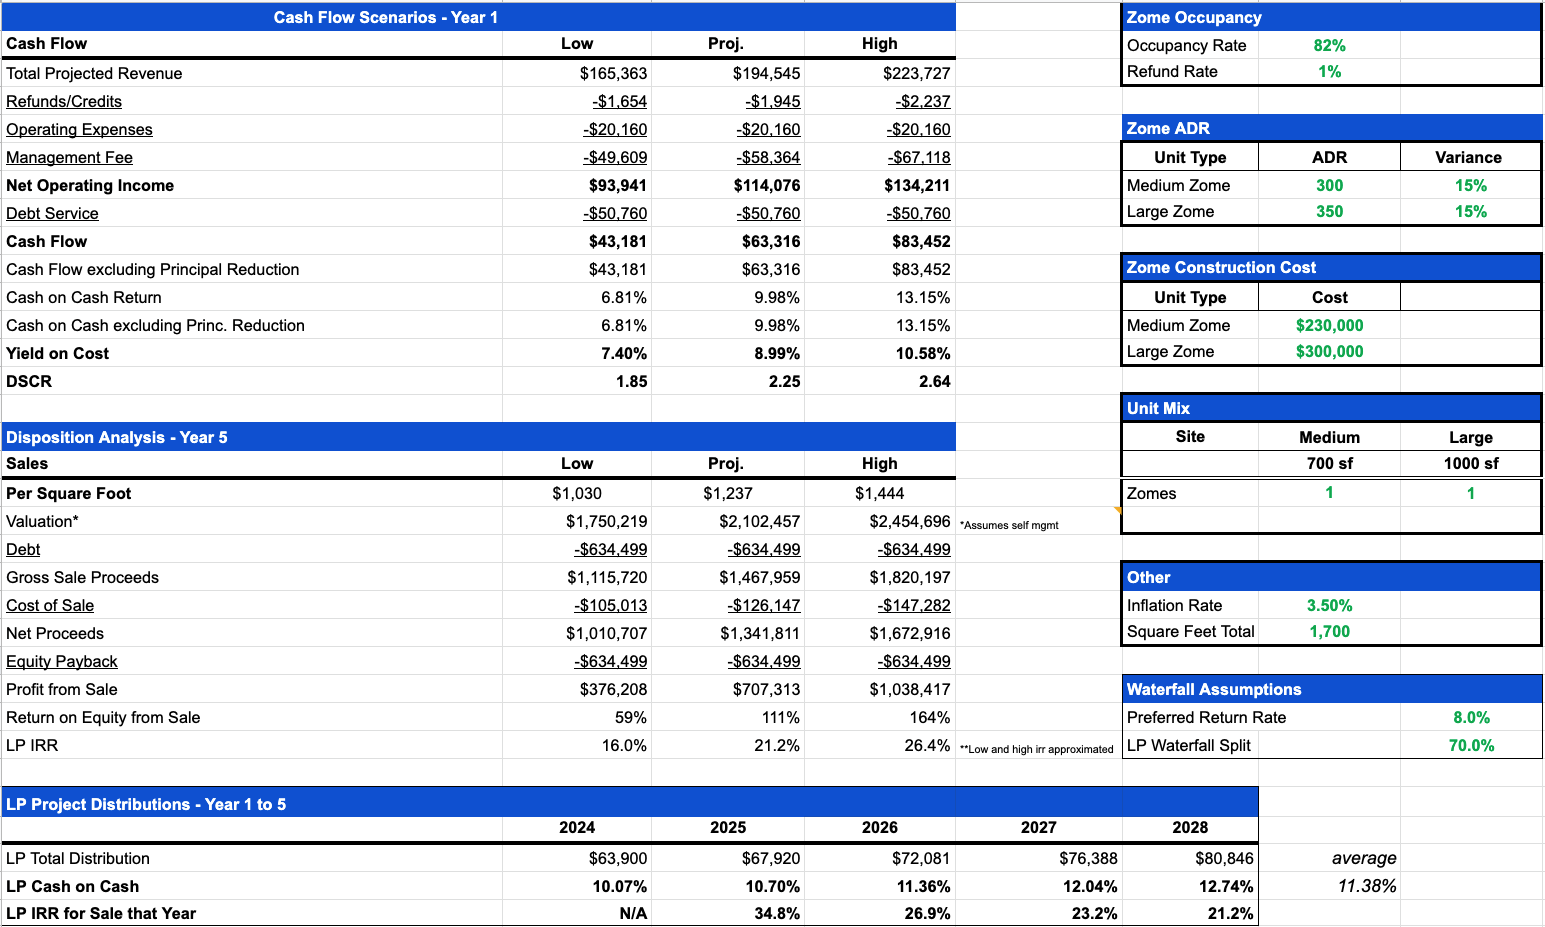
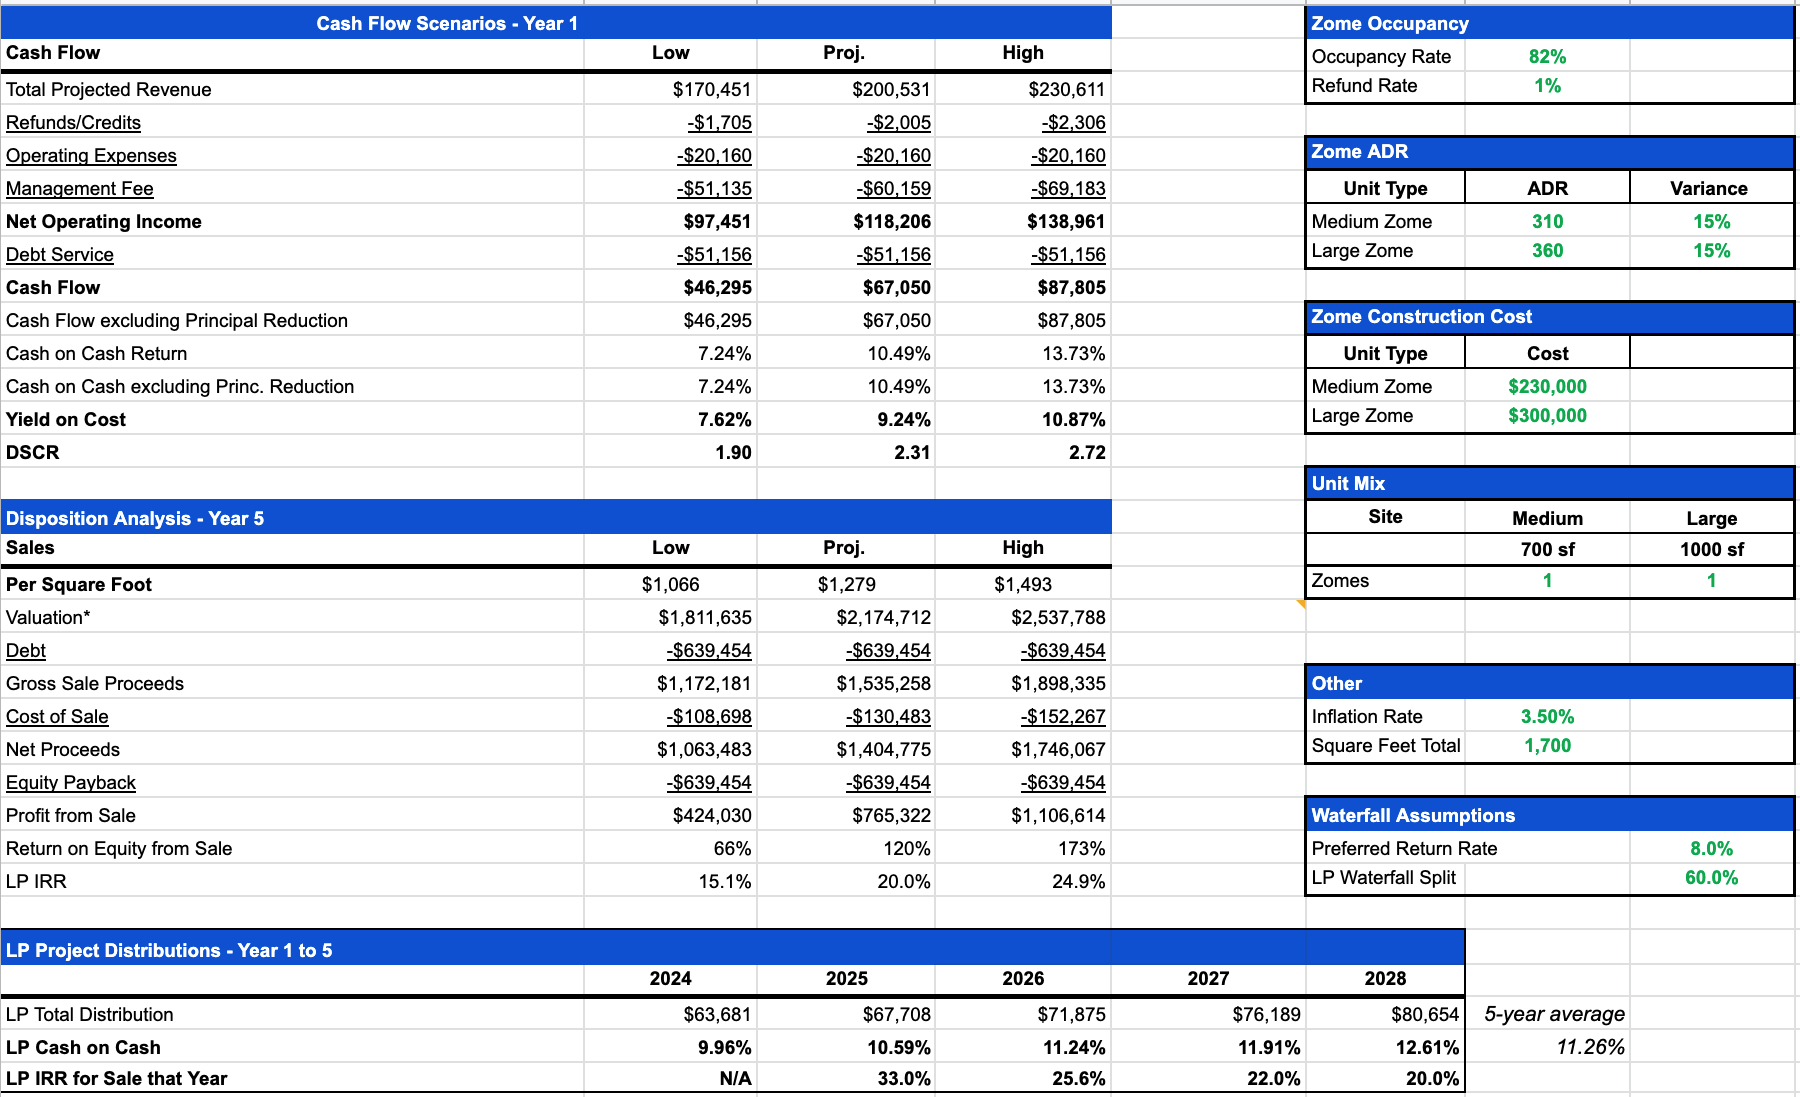
asdfas

Changed region(s): [[0.0, 0.0, 1.0, 1.0]]

diff --git a/_site/properties.html b/_site/properties.html
@@ -268,14 +268,14 @@
                                     class="project__has__investors__percent">(49.6%)</span>
                             </p>
                             <p class="project__has">
-                                <i class="fa-solid fa-dollar-sign"></i> 1,259,451 Goal
+                                <i class="fa-solid fa-dollar-sign"></i> 1,270,739 Goal
                             </p>
                         </div>
                     </div>
                     <div class="item__info">
                         <div class="item__info__single">
                             <p>Cash on Cash</p>
-                            <h6>11.53%</h6>
+                            <h6>11.39%</h6>
                         </div>
                         <div class="item__info__single">
                             <p>Target Hold</p>
@@ -287,7 +287,7 @@
                         </div>
                         <div class="item__info__single">
                             <p>Target IRR</p>
-                            <h6>21.5%</h6>
+                            <h6>20.2%</h6>
                         </div>
                         <!-- <div class="item__info__single">
                         <p></p>
@@ -374,14 +374,14 @@
                                     class="project__has__investors__percent">(49.25%)</span>
                             </p>
                             <p class="project__has">
-                                <i class="fa-solid fa-dollar-sign"></i> 1,268,997 Goal
+                                <i class="fa-solid fa-dollar-sign"></i> 1,278,907 Goal
                             </p>
                         </div>
                     </div>
                     <div class="item__info">
                         <div class="item__info__single">
                             <p>Cash on Cash</p>
-                            <h6>11.38%</h6>
+                            <h6>11.26%</h6>
                         </div>
                         <div class="item__info__single">
                             <p>Target Hold</p>
@@ -393,7 +393,7 @@
                         </div>
                         <div class="item__info__single">
                             <p>Target IRR</p>
-                            <h6>21.2%</h6>
+                            <h6>20.0%</h6>
                         </div>
                         <!-- <div class="item__info__single">
                         <p></p>
@@ -480,14 +480,14 @@
                                     class="project__has__investors__percent">(0%)</span>
                             </p>
                             <p class="project__has">
-                                <i class="fa-solid fa-dollar-sign"></i> 1,241,935 Goal
+                                <i class="fa-solid fa-dollar-sign"></i> 1,252,209 Goal
                             </p>
                         </div>
                     </div>
                     <div class="item__info">
                         <div class="item__info__single">
                             <p>Cash on Cash</p>
-                            <h6>11.81%</h6>
+                            <h6>11.67%</h6>
                         </div>
                         <div class="item__info__single">
                             <p>Target Hold</p>
@@ -499,7 +499,7 @@
                         </div>
                         <div class="item__info__single">
                             <p>Target IRR</p>
-                            <h6>22.0%</h6>
+                            <h6>20.7%</h6>
                         </div>
                         <!-- <div class="item__info__single">
                         <p></p>

diff --git a/_site/properties/lewis.html b/_site/properties/lewis.html
@@ -181,7 +181,7 @@
                                 position, and an equity investment in second.</p>
                         </div>
                         <div class="terms">
-    <h5>Equity Investment: Raising $620,937</h5>
+    <h5>Equity Investment: Raising $602,209</h5>
     <div class="terms__wrapper">
         <div class="terms__single">
             <img src="/assets/images/icons/investors.png" alt="Maximum Loan" />
@@ -191,12 +191,12 @@
         <div class="terms__single">
             <img src="/assets/images/icons/project.png" alt="Annual" />
             <p>Cash on Cash</p>
-            <h5 class="neutral-bottom">11.81%</h5>
+            <h5 class="neutral-bottom">11.67%</h5>
         </div>
         <div class="terms__single">
             <img src="/assets/images/icons/loan.png" alt="Charge" />
             <p>5 Year IRR</p>
-            <h5 class="neutral-bottom">22.0%</h5>
+            <h5 class="neutral-bottom">20.7%</h5>
         </div>
         <div class="terms__single">
             <img src="/assets/images/home.png" alt="Charge" />
@@ -208,7 +208,7 @@
     </div>
 </div>
                         <div class="terms">
-    <h5>Fixed Debt Investment: Raising $620,937</h5>
+    <h5>Fixed Debt Investment: Raising $650,000</h5>
     <div class="terms__wrapper">
         <div class="terms__single">
             <img src="/assets/images/icons/investors.png" alt="Maximum Loan" />

diff --git a/_site/properties/circle.html b/_site/properties/circle.html
@@ -192,12 +192,12 @@
         <div class="terms__single">
             <img src="/assets/images/icons/project.png" alt="Annual" />
             <p>Cash on Cash</p>
-            <h5 class="neutral-bottom">11.53%</h5>
+            <h5 class="neutral-bottom">11.39%</h5>
         </div>
         <div class="terms__single">
             <img src="/assets/images/icons/loan.png" alt="Charge" />
             <p>5 Year IRR</p>
-            <h5 class="neutral-bottom">21.5%</h5>
+            <h5 class="neutral-bottom">20.2%</h5>
         </div>
         <div class="terms__single">
             <img src="/assets/images/home.png" alt="Charge" />
@@ -209,7 +209,7 @@
     </div>
 </div>                        
                         <div class="terms">
-    <h5>Fixed Debt Investment: Raising $634,451</h5>
+    <h5>Fixed Debt Investment: Raising $645,739</h5>
     <div class="terms__wrapper">
         <div class="terms__single">
             <img src="/assets/images/icons/investors.png" alt="Maximum Loan" />

diff --git a/_site/properties/cathedral.html b/_site/properties/cathedral.html
@@ -192,12 +192,12 @@
         <div class="terms__single">
             <img src="/assets/images/icons/project.png" alt="Annual" />
             <p>Cash on Cash</p>
-            <h5 class="neutral-bottom">11.38%</h5>
+            <h5 class="neutral-bottom">11.26%</h5>
         </div>
         <div class="terms__single">
             <img src="/assets/images/icons/loan.png" alt="Charge" />
             <p>5 Year IRR</p>
-            <h5 class="neutral-bottom">21.2%</h5>
+            <h5 class="neutral-bottom">20.0%</h5>
         </div>
         <div class="terms__single">
             <img src="/assets/images/home.png" alt="Charge" />
@@ -209,7 +209,7 @@
     </div>
 </div>
                         <div class="terms">
-    <h5>Fixed Debt Investment: Raising $643,997</h5>
+    <h5>Fixed Debt Investment: Raising $653,907</h5>
     <div class="terms__wrapper">
         <div class="terms__single">
             <img src="/assets/images/icons/investors.png" alt="Maximum Loan" />
